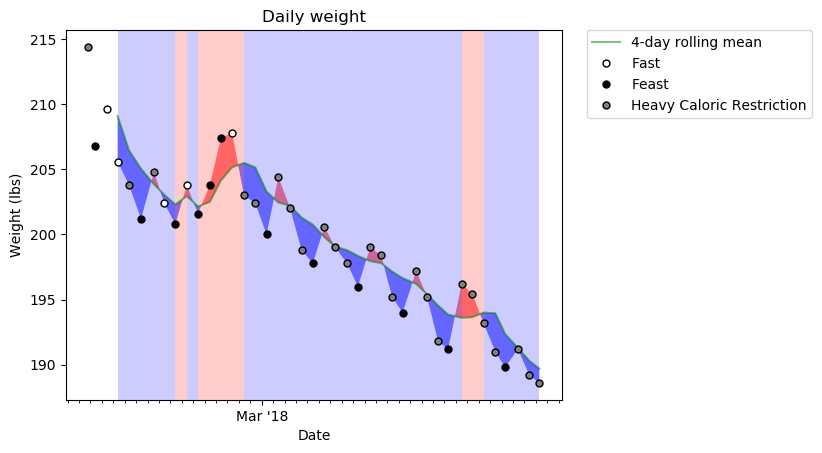
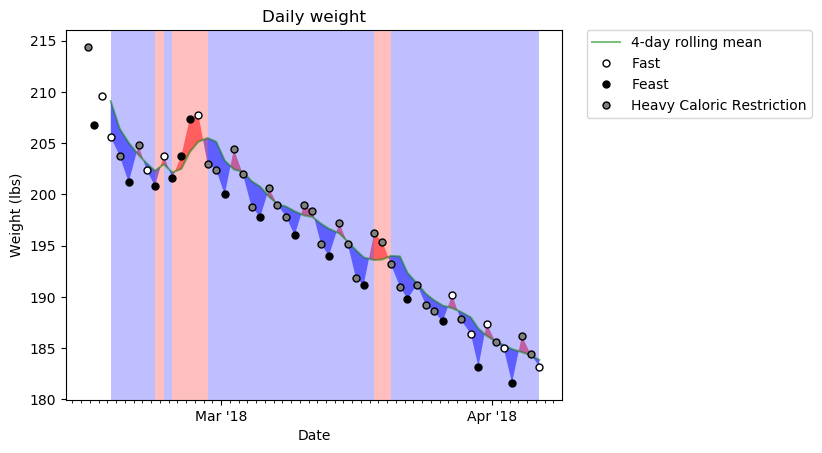
updated script to round rolling mean to two decimal places, updated weight text file and plot to present day, updated readme.

diff --git a/plot.py b/plot.py
@@ -46,12 +46,12 @@ for i in range(len(weight_lines)):
         date_time_heavy_caloric_restriction.append(datetime.datetime.strptime(weight_lines[i][0], '%Y%m%d%H%M'))
     fast.append(weight_lines[i][2][:-1])
 
-# Moving average functon, taken straight from:
+# Moving average function, modified from:
 # https://gordoncluster.wordpress.com/2014/02/13/python-numpy-how-to-generate-moving-averages-efficiently-part-2/
 def movingaverage (values, window):
     weights = np.repeat(1.0, window)/window
     sma = np.convolve(values, weights, 'valid')
-    return sma
+    return np.around(sma,2)
 
 # Get rolling mean list
 rolling_mean = movingaverage(weight, rolling_window)
@@ -62,9 +62,9 @@ fig, ax = plt.subplots()
 # Shade regions of increase and decrease in rolling mean
 for i in range(1,len(rolling_mean)):
     if rolling_mean[i] > rolling_mean[i-1]:
-        plt.axvspan(date_time[rolling_window-1+i-1],date_time[rolling_window-1+i], color='red', alpha=0.2, lw=0)
+        plt.axvspan(date_time[rolling_window-1+i-1],date_time[rolling_window-1+i], color='red', alpha=0.25, lw=0)
     else:
-        plt.axvspan(date_time[rolling_window-1+i-1],date_time[rolling_window-1+i], color='blue', alpha=0.2, lw=0)
+        plt.axvspan(date_time[rolling_window-1+i-1],date_time[rolling_window-1+i], color='blue', alpha=0.25, lw=0)
 
 # Plot shaded regions above and below rolling mean
 plt.fill_between(date_time[rolling_window-1:], rolling_mean, weight[rolling_window-1:], where=rolling_mean >= weight[rolling_window-1:], facecolor='blue', alpha=0.5, interpolate=True)

diff --git a/README.md b/README.md
@@ -1,4 +1,4 @@
-Here, you will find my weight loss journey text files and scripts. 
+Here you will find my weight loss journey text files and scripts. 
 
 I started at a weight of around 210 lbs and am aiming for a weight of 160-170 lbs. I'll go for 3-4 days of either eating nothing at all, or eating very little (<1000 calories) until I've reached a weight lower than my previous 3-4 day low calorie period, and then I'll have a feast day where I'd eat normally, and repeat. I take a multivitamin with minerals and fish oil pills everyday to ensure I don't get malnourished, and I have frequent trips to the doctor for checkups to make sure everything is okay.
 
